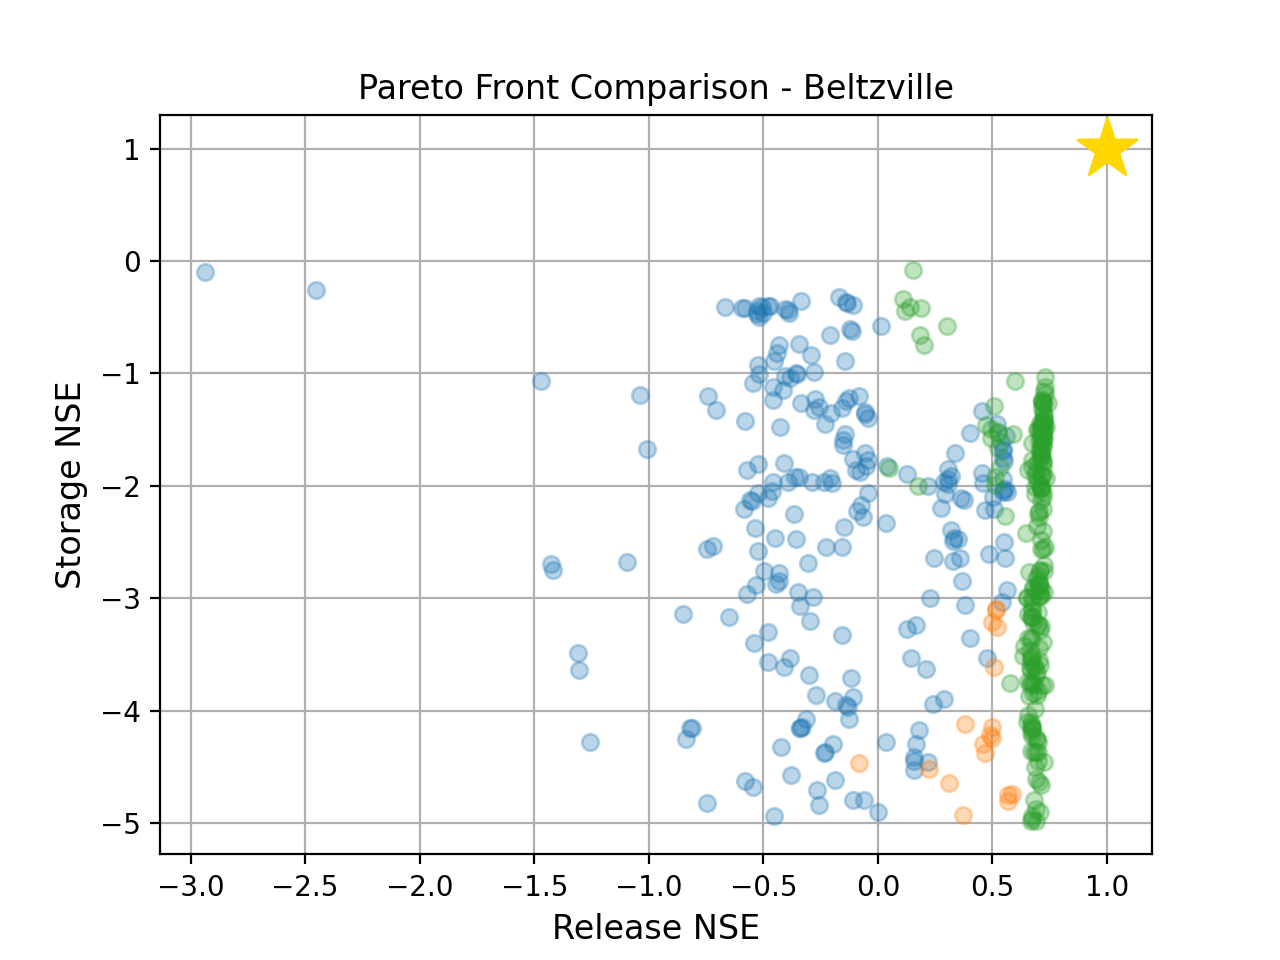
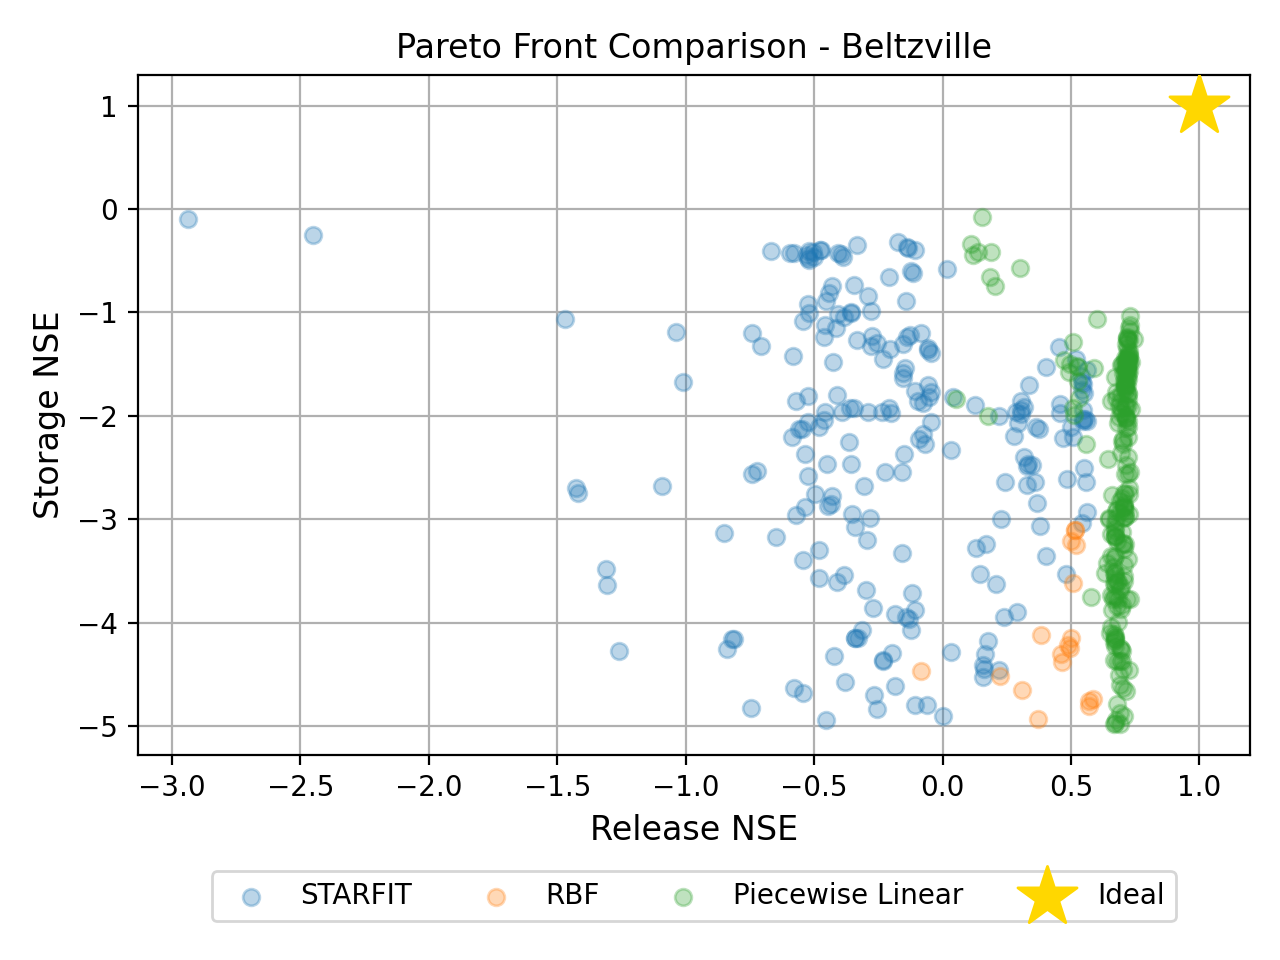
Updated figures with legend in fig1

diff --git a/0x_plot_training_data.py b/0x_plot_training_data.py
@@ -1,0 +1,30 @@
+import matplotlib.pyplot as plt
+
+from methods.load.observations import get_observational_training_data
+
+from methods.config import DATA_DIR, PROCESSED_DATA_DIR, OUTPUT_DIR
+from methods.config import reservoir_options, policy_type_options
+
+
+for reservoir in reservoir_options:
+    
+    # load data
+    inflow_obs, release_obs, storage_obs = get_observational_training_data(
+        reservoir_name=reservoir,
+        data_dir = PROCESSED_DATA_DIR,
+        as_numpy=False,
+        scaled_inflows=True
+    )
+    
+    # Plot 3-panel inflow, storage release
+    fig, axs = plt.subplots(3, 1, figsize=(10, 15), sharex=True)
+    fig.suptitle(f"Reservoir: {reservoir}", fontsize=16)
+    axs[0].plot(inflow_obs.index, inflow_obs.values, label='Inflow', color='blue')
+    axs[0].set_ylabel('Inflow')
+    axs[1].plot(storage_obs.index, storage_obs.values, label='Storage', color='green')
+    axs[1].set_ylabel('Storage')
+    axs[2].plot(release_obs.index, release_obs.values, label='Release', color='red')
+    axs[2].set_ylabel('Release')
+    axs[2].set_xlabel('Date')
+    axs[2].legend()
+    plt.savefig(f"./training_data_{reservoir}_inflow_storage_release.png")

diff --git a/methods/plotting/plot_pareto_front_comparison.py b/methods/plotting/plot_pareto_front_comparison.py
@@ -36,9 +36,10 @@ def plot_pareto_front_comparison(obj_dfs,
         ax.set_xlim(x_lims[0], x_lims[1])
     if y_lims is not None:
         ax.set_ylim(y_lims[0], y_lims[1])       
-    ax.legend(bbox_to_anchor=(0.5, -0.15), loc='upper center', fontsize=10)
+    ax.legend(bbox_to_anchor=(0.5, -0.15), loc='upper center', fontsize=10, ncol=4)
     ax.set_title(title)
     ax.grid(zorder=0)
+    plt.tight_layout()
     
     if fname is not None:
         plt.savefig(fname, dpi=200)
